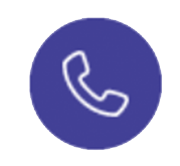
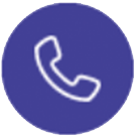
update contact page

diff --git a/src/assets/styles/contactus.scss b/src/assets/styles/contactus.scss
@@ -21,7 +21,10 @@
         min-height: 50vw;
         margin-top: -9.1vw;
         width: 100%;
-        .--title {
+        .--max {
+            max-width: 86%;
+        }
+        h1.--title {
             font-family: "gill sans",sans-serif !important;
             letter-spacing: 0.4vw;
             font-weight: 600 !important;
@@ -29,18 +32,35 @@
             line-height: 3.1vw;
             font-size: 2vw;
             color: #283a97;
-            margin: 4vw 0 2.5vw 0;
+            margin: 4vw 0 10.5vw 0;
             text-align: center;
         }
-        .--desc {
-            font-family: "gill sans",sans-serif;
+        img {
+            margin: 0 auto 3vw auto;
+            display: block;
+            height: 135px;
+            width: 135px;
+        }
+        h3.--title {
+            font-family: "gill sans",sans-serif !important;
+            letter-spacing: 0.2vw;
             font-weight: 600 !important;
-            margin-bottom: 9.4vw;
-            font-size: 1.25vw;
-            color: #676ab0;
-            line-height: 2.4vw;
+            text-transform: uppercase;
+            line-height: 1.1;
+            font-size: 1.19vw;
+            color: #283a97;
+            margin: 0 0 0.5vw 0;
+            text-align: center;    
+        }
+        p.--desc {
+            font-family: "gill sans medium",sans-serif;
+            font-weight: 500 !important;
+            margin-bottom: 2.4vw;
+            font-size: 1.2vw;
+            color: #283a97;
+            line-height: 1.4vw;
             text-align: center;
-            letter-spacing: 0.25vw;
+            letter-spacing: 0.17vw;
         }
     }
 }

diff --git a/src/views/ContactUs.js b/src/views/ContactUs.js
@@ -1,15 +1,36 @@
 import React from 'react';
-import { Container, Row, Col } from 'react-bootstrap';
+import { Container, Row, Col, Image } from 'react-bootstrap';
 import '../assets/styles/contactus.scss';
 
 function ContactUs() {
   return (
     <div className="--contact-us">
       <div className="--bg-1">
-        <Container>
+        <Container className="--max">
           <Row>
             <Col>
               <h1 className="--title">Get In Touch</h1>
+            </Col>
+          </Row>
+          <Row>
+            <Col md={4}>
+              <Image src={require('../assets/images/contactus/Contact_Icon-01.png').default} />
+              <h3 className="--title">Address</h3>
+              <p className="--desc">Temokin Holdings Sdn Bhd (182413-M) <br/>
+              No.2, Jalan 15/48 A, <br/>
+              Sentul Raya Boulevard, <br/>
+              51000 Kuala Lumpur</p>
+            </Col>
+            <Col md={4}>
+              <Image src={require('../assets/images/contactus/Contact_Icon-02.png').default} />
+              <h3 className="--title">Phone</h3>
+              <p className="--desc">Tel: +603-40441111 <br/>
+              Fax: +603-40418900</p>
+            </Col>
+            <Col md={4}>
+              <Image src={require('../assets/images/contactus/Contact_Icon-03.png').default} />
+              <h3 className="--title">Email</h3>
+              <p className="--desc">temokin@temokin.com</p>
             </Col>
           </Row>
         </Container>
